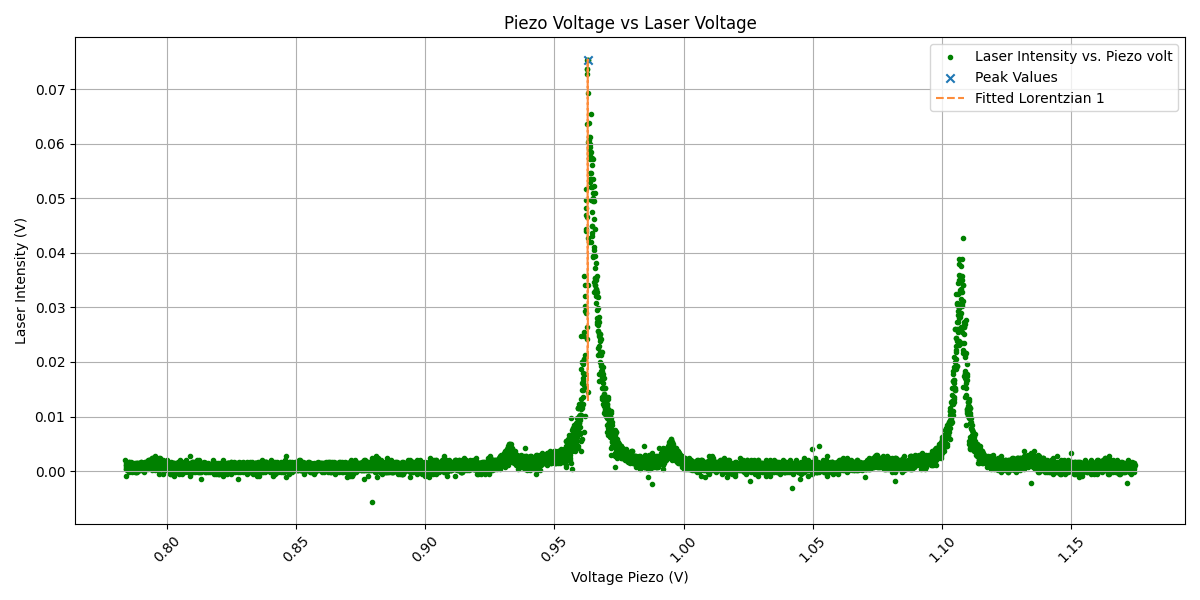
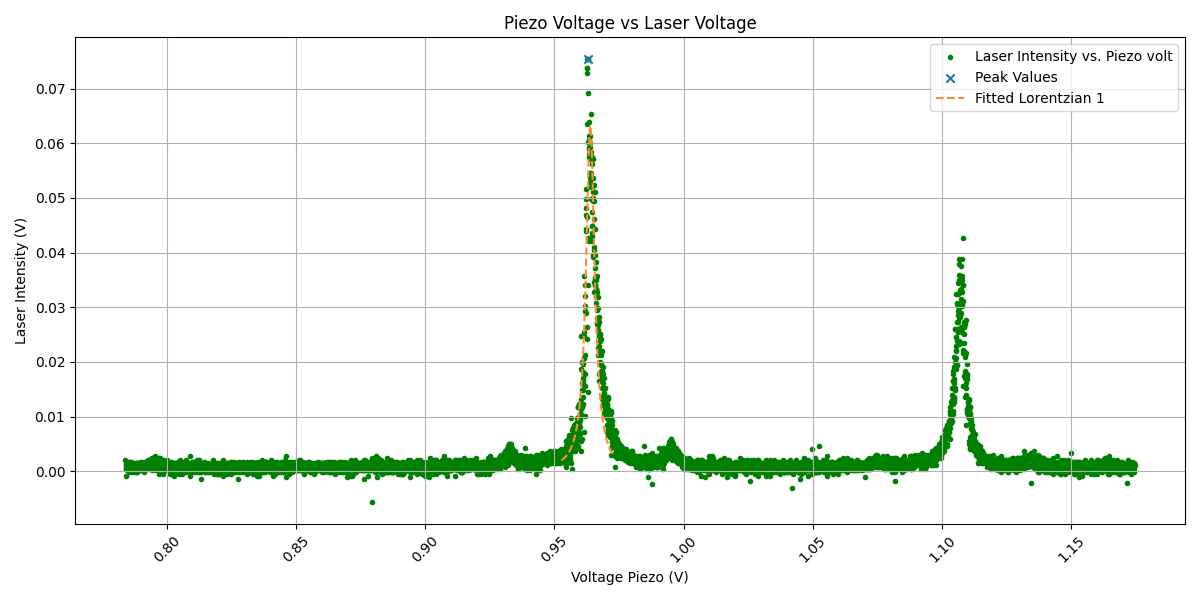
brute force solution

diff --git a/fit_peaks.py b/fit_peaks.py
@@ -55,3 +55,81 @@ def fit_peaks(x, y, height, distance):
                 f"An unexpected error occurred while fitting peak at piezo_fitted = {x[peak]:.2f}: {e}")
 
     return params, covs
+
+
+def fit_peaks2(x, y, peaks, widths, ind_range):
+    '''Given x and y (a list of peaks and FWHMs) returns a list of lorentzian curves
+    (just the 3 parameters A, x0, gamma) and a list with the covariance matrices from the fit.'''
+
+    x_spacing = np.mean(np.diff(x))
+
+    indices = [np.flatnonzero(x == pk)[0] for pk in peaks if pk in x]
+
+    # Loop through each peak and fit
+    params = []
+    covs = []
+    for peak_index, width in zip(indices, widths):
+        # Determine a fitting range around the peak, e.g., ±1.2 * width
+        start = max(0, peak_index - int(ind_range/2))
+        end = min(len(x), peak_index + int(ind_range/2))
+
+        # Extract data around the peak
+        x_fit_range = x[start:end]
+        y_fit_range = y[start:end]
+
+        # Initial guess: A=height at peak, x0=peak position in x_fitted, gamma=half-width at half-maximum
+        initial_guess = [y[peak_index], x[peak_index], width / 2]
+
+        # Define bounds for A, x0, and gamma
+        bounds = (
+            # Lower bounds for [A, x0, gamma]
+            [0, x[peak_index] - width, 0],
+            # Upper bounds for [A, x0, gamma]
+            [np.inf, x[peak_index] + width, width * 2]
+        )
+
+        try:
+            popt, pcov = curve_fit(lorentzian, x_fit_range, y_fit_range,
+                                   p0=initial_guess, bounds=bounds, maxfev=10000)
+            params.append(popt)
+            covs.append(pcov)
+        except RuntimeError as e:
+            print(
+                f"Failed to fit peak at piezo_fitted = {x[peak_index]:.2f} due to RuntimeError: {e}")
+        except Exception as e:
+            print(
+                f"An unexpected error occurred while fitting peak at piezo_fitted = {x[peak_index]:.2f}: {e}")
+
+    return params, covs
+
+import matplotlib.pyplot as plt
+from matplotlib import cm
+def plot_piezo_laser_fit2(piezo_fitted, volt_laser, file_name, A, x0, gamma, xpeaks, ypeaks, ind_range, save=False):
+    fitted_curves = []
+    piezo_spacing = np.mean(np.diff(piezo_fitted))
+    for A_, x0_, gamma_, peak in zip(A, x0, gamma, xpeaks):
+        x = np.linspace(peak - ind_range * piezo_spacing/2, peak + ind_range * piezo_spacing/2, 100)
+        y = lorentzian(x, A_, x0_, gamma_)
+        fitted_curves.append((x, y))
+
+    cmap = cm.get_cmap('Oranges')
+    colors = cmap(np.linspace(0.5, 0.9, len(fitted_curves)))
+
+    plt.figure(figsize=(12, 6))
+    plt.scatter(piezo_fitted, volt_laser, label='Laser Intensity vs. Piezo volt',
+                color='green', marker='.')
+    plt.scatter(xpeaks, ypeaks, marker='x', label='Peak Values')
+    for i, (x, y) in enumerate(fitted_curves):
+        plt.plot(x, y, '--', label=f'Fitted Lorentzian {i+1}', color=colors[i])
+    plt.xlabel('Voltage Piezo (V)')
+    plt.ylabel('Laser Intensity (V)')
+    plt.title('Piezo Voltage vs Laser Voltage')
+    plt.legend()
+    plt.grid()
+    plt.xticks(rotation=45)
+    plt.tight_layout()
+    if save:
+        plt.savefig(file_name)
+        plt.close()
+    else:
+        plt.show()

diff --git a/finesse.py b/finesse.py
@@ -21,6 +21,8 @@ d_fsr_volt = 0.0001395265273752087
 
 os.makedirs(f"data_non_confocal/figures/finesse", exist_ok=True)
 
+ind_range = 400
+
 #####################################################################################################
 
 finesse_list = []
@@ -34,7 +36,8 @@ for title, h in zip(title_list, min_heights):
     print(title)
 
     xpeaks, ypeaks, peak_widths = fn.peaks(volt_piezo, volt_laser, h, 400)
-    lor, cov = fp.fit_peaks(volt_piezo, volt_laser, h, 400)
+    peak_widths = [max(pw, 0.001) for pw in peak_widths]
+    lor, cov = fp.fit_peaks2(volt_piezo, volt_laser, xpeaks, peak_widths, ind_range)
 
     x0_list = []
     A_list = []
@@ -51,12 +54,12 @@ for title, h in zip(title_list, min_heights):
     A_list = np.array(A_list)
     gamma_list = np.array(gamma_list)
     dgamma = np.array(dgamma)
-
-    fn.plot_piezo_laser_fit(volt_piezo, volt_laser, file_name=f'data_non_confocal/figures/finesse/piezo_peaks_{title}.png', A=A_list,
-                            x0=x0_list, gamma=gamma_list, xpeaks=xpeaks, ypeaks=ypeaks, width=peak_widths, save=True)
     
-    if (title == 'error00001') | (title == 'error00015'):
-        continue
+    for g, dg in zip(gamma_list, dgamma):
+        print(f'gamma = {g} +/- {dg}')
+
+    fp.plot_piezo_laser_fit2(volt_piezo, volt_laser, file_name=f'data_non_confocal/figures/finesse/piezo_peaks_{title}.png', A=A_list,
+                            x0=x0_list, gamma=gamma_list, xpeaks=xpeaks, ypeaks=ypeaks, ind_range=ind_range, save=True)
 
     fin = fsr_volt/(2*gamma_list)
     d_fin = fin * np.sqrt((d_fsr_volt / fsr_volt) **
